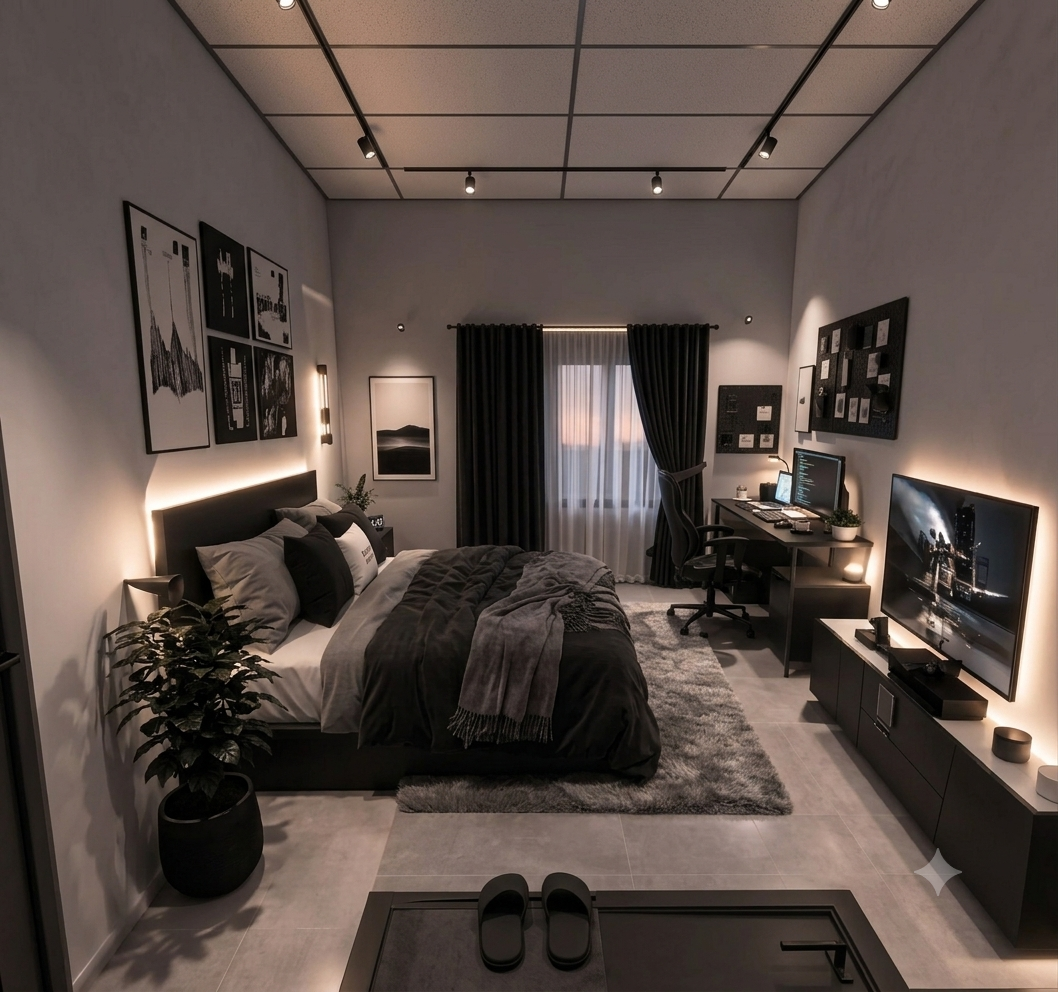
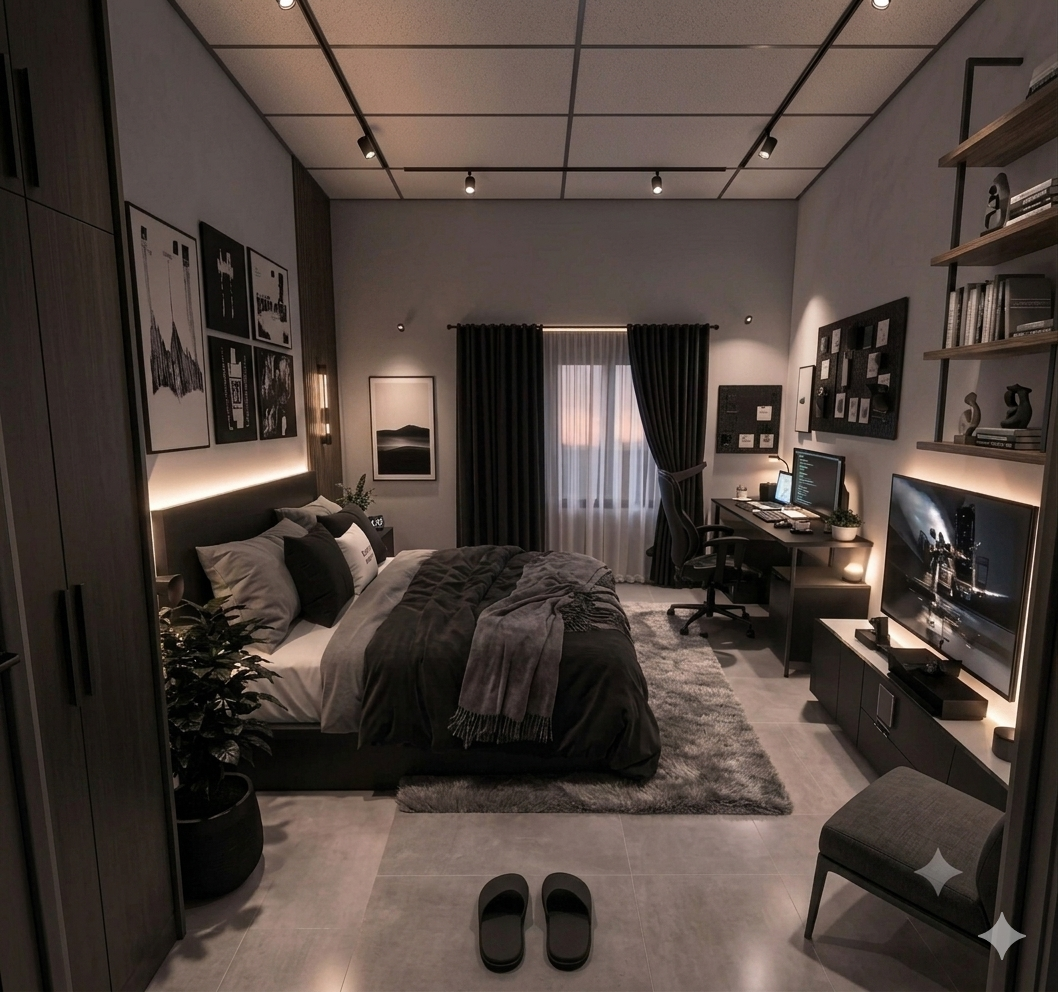
feat(capture): конфиг и CLI (--source file:/webcam/zed, --engine)

Changed region(s): [[0.3119, 0.0312, 1.0, 1.0], [0.0, 0.0, 0.1871, 1.0], [0.2495, 0.1562, 0.3431, 0.5312]]

diff --git a/capture/src/capture/config.py b/capture/src/capture/config.py
@@ -1,0 +1,46 @@
+"""Конфигурация capture-сервиса: pydantic-модель + разбор CLI."""
+
+import argparse
+from typing import Literal
+
+from pydantic import BaseModel
+
+
+class CaptureConfig(BaseModel):
+    source: Literal["webcam", "file", "zed"] = "webcam"
+    file_path: str = ""          # для source=file
+    camera_index: int = 0        # для source=webcam
+    engine: Literal["mediapipe", "rvm"] = "mediapipe"
+    width: int = 1280
+    height: int = 720
+    fps: int = 30
+    port: int = 8765             # aiohttp: /offer /ws /viewer /health
+    models_dir: str = "models"   # куда скачаны модели (scripts/get-models.sh)
+
+
+def parse_args(argv: list[str] | None = None) -> CaptureConfig:
+    p = argparse.ArgumentParser(description="Stellar Mirror Lux capture-сервис")
+    p.add_argument("--source", default="webcam",
+                   help="webcam | file:путь.mp4 | zed")
+    p.add_argument("--engine", default="mediapipe", choices=["mediapipe", "rvm"])
+    p.add_argument("--camera-index", type=int, default=0)
+    p.add_argument("--width", type=int, default=1280)
+    p.add_argument("--height", type=int, default=720)
+    p.add_argument("--fps", type=int, default=30)
+    p.add_argument("--port", type=int, default=8765)
+    p.add_argument("--models-dir", default="models")
+    a = p.parse_args(argv)
+
+    source, file_path = a.source, ""
+    if source.startswith("file:"):
+        source, file_path = "file", source[len("file:"):]
+    if source not in ("webcam", "file", "zed"):
+        p.error(f"неизвестный источник: {a.source}")
+    if source == "file" and not file_path:
+        p.error("источник file требует путь: --source file:клип.mp4")
+
+    return CaptureConfig(
+        source=source, file_path=file_path, camera_index=a.camera_index,
+        engine=a.engine, width=a.width, height=a.height, fps=a.fps,
+        port=a.port, models_dir=a.models_dir,
+    )

diff --git a/capture/tests/test_config.py b/capture/tests/test_config.py
@@ -1,0 +1,30 @@
+from capture.config import CaptureConfig, parse_args
+
+
+def test_defaults() -> None:
+    cfg = CaptureConfig()
+    assert cfg.source == "webcam"
+    assert cfg.engine == "mediapipe"
+    assert cfg.port == 8765
+    assert cfg.width == 1280
+    assert cfg.height == 720
+
+
+def test_parse_args_file_source() -> None:
+    cfg = parse_args(["--source", "file:clip.mp4", "--engine", "rvm", "--port", "9000"])
+    assert cfg.source == "file"
+    assert cfg.file_path == "clip.mp4"
+    assert cfg.engine == "rvm"
+    assert cfg.port == 9000
+
+
+def test_parse_args_zed() -> None:
+    cfg = parse_args(["--source", "zed"])
+    assert cfg.source == "zed"
+
+
+def test_parse_args_bad_source() -> None:
+    import pytest
+
+    with pytest.raises(SystemExit):
+        parse_args(["--source", "hologram"])